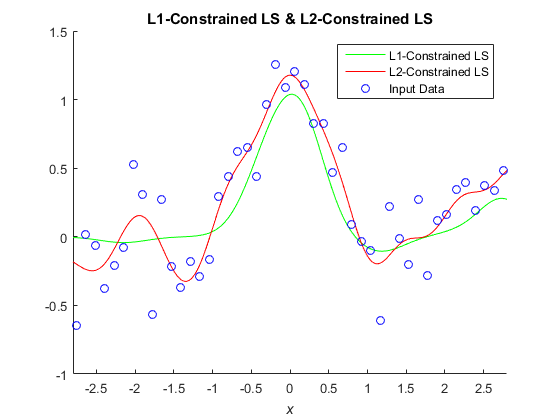
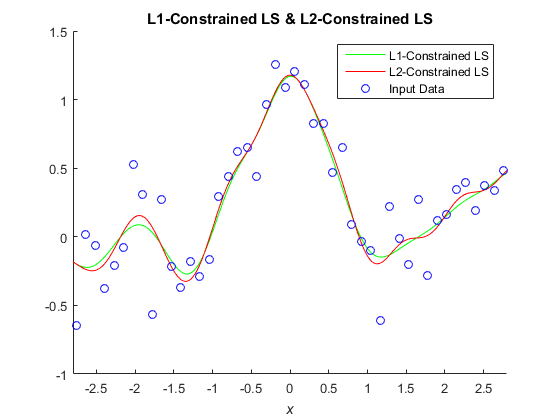
add ch06

diff --git a/chapter06/html/eg6_3.html b/chapter06/html/eg6_3.html
@@ -1,0 +1,234 @@
+
+<!DOCTYPE html
+  PUBLIC "-//W3C//DTD HTML 4.01 Transitional//EN">
+<html><head>
+      <meta http-equiv="Content-Type" content="text/html; charset=utf-8">
+   <!--
+This HTML was auto-generated from MATLAB code.
+To make changes, update the MATLAB code and republish this document.
+      --><title>Example 6.1 L1-Constrained Least Huber Loss Regression</title><meta name="generator" content="MATLAB 8.6"><link rel="schema.DC" href="http://purl.org/dc/elements/1.1/"><meta name="DC.date" content="2016-04-08"><meta name="DC.source" content="eg6_3.m"><style type="text/css">
+html,body,div,span,applet,object,iframe,h1,h2,h3,h4,h5,h6,p,blockquote,pre,a,abbr,acronym,address,big,cite,code,del,dfn,em,font,img,ins,kbd,q,s,samp,small,strike,strong,sub,sup,tt,var,b,u,i,center,dl,dt,dd,ol,ul,li,fieldset,form,label,legend,table,caption,tbody,tfoot,thead,tr,th,td{margin:0;padding:0;border:0;outline:0;font-size:100%;vertical-align:baseline;background:transparent}body{line-height:1}ol,ul{list-style:none}blockquote,q{quotes:none}blockquote:before,blockquote:after,q:before,q:after{content:'';content:none}:focus{outine:0}ins{text-decoration:none}del{text-decoration:line-through}table{border-collapse:collapse;border-spacing:0}
+
+html { min-height:100%; margin-bottom:1px; }
+html body { height:100%; margin:0px; font-family:Arial, Helvetica, sans-serif; font-size:10px; color:#000; line-height:140%; background:#fff none; overflow-y:scroll; }
+html body td { vertical-align:top; text-align:left; }
+
+h1 { padding:0px; margin:0px 0px 25px; font-family:Arial, Helvetica, sans-serif; font-size:1.5em; color:#d55000; line-height:100%; font-weight:normal; }
+h2 { padding:0px; margin:0px 0px 8px; font-family:Arial, Helvetica, sans-serif; font-size:1.2em; color:#000; font-weight:bold; line-height:140%; border-bottom:1px solid #d6d4d4; display:block; }
+h3 { padding:0px; margin:0px 0px 5px; font-family:Arial, Helvetica, sans-serif; font-size:1.1em; color:#000; font-weight:bold; line-height:140%; }
+
+a { color:#005fce; text-decoration:none; }
+a:hover { color:#005fce; text-decoration:underline; }
+a:visited { color:#004aa0; text-decoration:none; }
+
+p { padding:0px; margin:0px 0px 20px; }
+img { padding:0px; margin:0px 0px 20px; border:none; }
+p img, pre img, tt img, li img, h1 img, h2 img { margin-bottom:0px; } 
+
+ul { padding:0px; margin:0px 0px 20px 23px; list-style:square; }
+ul li { padding:0px; margin:0px 0px 7px 0px; }
+ul li ul { padding:5px 0px 0px; margin:0px 0px 7px 23px; }
+ul li ol li { list-style:decimal; }
+ol { padding:0px; margin:0px 0px 20px 0px; list-style:decimal; }
+ol li { padding:0px; margin:0px 0px 7px 23px; list-style-type:decimal; }
+ol li ol { padding:5px 0px 0px; margin:0px 0px 7px 0px; }
+ol li ol li { list-style-type:lower-alpha; }
+ol li ul { padding-top:7px; }
+ol li ul li { list-style:square; }
+
+.content { font-size:1.2em; line-height:140%; padding: 20px; }
+
+pre, code { font-size:12px; }
+tt { font-size: 1.2em; }
+pre { margin:0px 0px 20px; }
+pre.codeinput { padding:10px; border:1px solid #d3d3d3; background:#f7f7f7; }
+pre.codeoutput { padding:10px 11px; margin:0px 0px 20px; color:#4c4c4c; }
+pre.error { color:red; }
+
+@media print { pre.codeinput, pre.codeoutput { word-wrap:break-word; width:100%; } }
+
+span.keyword { color:#0000FF }
+span.comment { color:#228B22 }
+span.string { color:#A020F0 }
+span.untermstring { color:#B20000 }
+span.syscmd { color:#B28C00 }
+
+.footer { width:auto; padding:10px 0px; margin:25px 0px 0px; border-top:1px dotted #878787; font-size:0.8em; line-height:140%; font-style:italic; color:#878787; text-align:left; float:none; }
+.footer p { margin:0px; }
+.footer a { color:#878787; }
+.footer a:hover { color:#878787; text-decoration:underline; }
+.footer a:visited { color:#878787; }
+
+table th { padding:7px 5px; text-align:left; vertical-align:middle; border: 1px solid #d6d4d4; font-weight:bold; }
+table td { padding:7px 5px; text-align:left; vertical-align:top; border:1px solid #d6d4d4; }
+
+
+
+
+
+  </style></head><body><div class="content"><h1>Example 6.1 L1-Constrained Least Huber Loss Regression</h1><!--introduction--><div><ul><li><b>Result in book</b> : Figure 6.13</li><li><b>Code in book</b> : Figure 6.14</li><li><b>Output</b> : <tt>eg6_3.png</tt></li><li><b>Usage</b> : <tt>eg6_3(), eg6_3(50, 1000)</tt></li></ul></div><!--/introduction--><h2>Contents</h2><div><ul><li><a href="#1">Source Code</a></li></ul></div><h2>Source Code<a name="1"></a></h2><pre class="codeinput"><span class="keyword">function</span> eg6_3(n, N)
+	<span class="comment">% init</span>
+	rng(0);
+	<span class="comment">% recommended, use it in future instead of</span>
+	<span class="comment">% rand('state', 0); randn('state', 0);</span>
+	<span class="keyword">if</span> nargin &lt; 2
+		n = 50; N = 1000;
+	<span class="keyword">end</span>
+
+	<span class="comment">% constant</span>
+	x = linspace(-3, 3, n)';
+	X = linspace(-3, 3, N)';
+	pix = pi * x;
+	y = sin(pix) ./ (pix) + 0.1 * x + 0.2 * randn(n, 1);
+	y(n / 2) = -0.5;
+
+	hh = 2 * 0.3 ^ 2;
+	l = 0.1;
+	e = 0.1;
+	t0 = randn(n, 1);
+	x2 = x .^ 2;
+	X2 = X .^ 2;
+	k = exp(-(repmat(x2, 1, n) + repmat(x2', n, 1) - 2 * x * x') / hh);
+	K = exp(-(repmat(X2, 1, n) + repmat(x2', N, 1) - 2 * X * x') / hh);
+
+	<span class="comment">% Least Square Loss Regression, (\lambda, \eta) = (0, \inf)</span>
+	<span class="keyword">for</span> o = 1 : (n * 10000)
+		index = ceil(rand * n);
+		ki = exp(-(x - x(index)) .^ 2 / hh);
+		t = t0 - e * ki * (ki' * t0 - y(index));
+		<span class="keyword">if</span> norm(t - t0) &lt; 1e-7, <span class="keyword">break</span>, <span class="keyword">end</span>
+		t0 = t;
+    <span class="keyword">end</span>
+	F1 = K * t;
+
+	<span class="comment">% L1-Constrained Least Square Loss Regression, (\lambda, \eta) = (0.1, \inf)</span>
+	k2 = k ^ 2; ky = k * y;
+	t0 = randn(n, 1);
+	<span class="keyword">for</span> o = 1 : (n * 1000)
+		t = (k2 + l * pinv(diag(abs(t0)))) \ ky;
+		<span class="keyword">if</span> norm(t - t0) &lt; 1e-4, <span class="keyword">break</span>, <span class="keyword">end</span>
+		t0 = t;
+    <span class="keyword">end</span>
+	F2 = K * t;
+
+	<span class="comment">% Least Huber Loss Regression, (\lambda, \eta) = (0, 0.1)</span>
+	t0 = randn(n, 1);
+	<span class="keyword">for</span> o = 1 : 1000
+		r = abs(k * t0 - y);
+		w = ones(n, 1); w(r &gt; e) = e ./ r(r &gt; e);
+		Z = k * (repmat(w, 1, n) .* k);
+		t = (Z + 0.000001 * eye(n)) \ (k * (w .* y));
+		<span class="keyword">if</span> norm(t - t0) &lt; 1e-4, <span class="keyword">break</span>, <span class="keyword">end</span>
+		t0 = t;
+    <span class="keyword">end</span>
+	F3 = K * t;
+
+	<span class="comment">% L1-Constrained Least Huber Loss Regression, (\lambda, \eta) = (0.1, 0.1)</span>
+	t0 = randn(n, 1);
+	<span class="keyword">for</span> o = 1 : 1000
+		r = abs(k * t0 - y);
+		w = ones(n, 1); w(r &gt; e) = e ./ r(r &gt; e);
+		Z = k * (repmat(w, 1, n) .* k) + l * pinv(diag(abs(t0)));
+		t = (Z + 0.1 * eye(n)) \ (k * (w .* y));
+		<span class="keyword">if</span> norm(t - t0) &lt; 1e-3, <span class="keyword">break</span>, <span class="keyword">end</span>
+		t0 = t;
+    <span class="keyword">end</span>
+	F4 = K * t;
+
+	figure(<span class="string">'Name'</span>, <span class="string">'example 6-3'</span>); clf; hold <span class="string">on</span>;
+	axis([-2.8 2.8 -1 1.5]);
+	plot(X, F1, <span class="string">'b-'</span>, X, F2, <span class="string">'m-'</span>, X, F3, <span class="string">'g-'</span>, X, F4, <span class="string">'r-'</span>, x, y, <span class="string">'cp'</span>);
+	legend(<span class="string">'LS'</span>, <span class="string">'L1-Constrained LS'</span>, <span class="keyword">...</span>
+		<span class="string">'Least Huber'</span>, <span class="string">'L1-Constrained Least Huber'</span>, <span class="keyword">...</span>
+        <span class="string">'Input Data'</span>, <span class="string">'Location'</span>, <span class="string">'southeast'</span>);
+	saveas(gcf, <span class="string">'eg6_3'</span>, <span class="string">'png'</span>);
+<span class="keyword">end</span>
+</pre><img vspace="5" hspace="5" src="eg6_3_01.png" alt=""> <p class="footer"><br><a href="http://www.mathworks.com/products/matlab/">Published with MATLAB&reg; R2015b</a><br></p></div><!--
+##### SOURCE BEGIN #####
+%% Example 6.1 L1-Constrained Least Huber Loss Regression
+%
+% * *Result in book* : Figure 6.13
+% * *Code in book* : Figure 6.14
+% * *Output* : |eg6_3.png|
+% * *Usage* : |eg6_3(), eg6_3(50, 1000)|
+%
+%% Source Code
+function eg6_3(n, N)
+	% init
+	rng(0);
+	% recommended, use it in future instead of
+	% rand('state', 0); randn('state', 0);
+	if nargin < 2
+		n = 50; N = 1000;
+	end
+
+	% constant
+	x = linspace(-3, 3, n)';
+	X = linspace(-3, 3, N)';
+	pix = pi * x;
+	y = sin(pix) ./ (pix) + 0.1 * x + 0.2 * randn(n, 1);
+	y(n / 2) = -0.5;
+
+	hh = 2 * 0.3 ^ 2;
+	l = 0.1;
+	e = 0.1;
+	t0 = randn(n, 1);
+	x2 = x .^ 2;
+	X2 = X .^ 2;
+	k = exp(-(repmat(x2, 1, n) + repmat(x2', n, 1) - 2 * x * x') / hh);
+	K = exp(-(repmat(X2, 1, n) + repmat(x2', N, 1) - 2 * X * x') / hh);
+
+	% Least Square Loss Regression, (\lambda, \eta) = (0, \inf)
+	for o = 1 : (n * 10000)
+		index = ceil(rand * n);
+		ki = exp(-(x - x(index)) .^ 2 / hh);
+		t = t0 - e * ki * (ki' * t0 - y(index));
+		if norm(t - t0) < 1e-7, break, end
+		t0 = t;
+    end
+	F1 = K * t;
+
+	% L1-Constrained Least Square Loss Regression, (\lambda, \eta) = (0.1, \inf)
+	k2 = k ^ 2; ky = k * y;
+	t0 = randn(n, 1);
+	for o = 1 : (n * 1000)
+		t = (k2 + l * pinv(diag(abs(t0)))) \ ky;
+		if norm(t - t0) < 1e-4, break, end
+		t0 = t;
+    end
+	F2 = K * t;
+
+	% Least Huber Loss Regression, (\lambda, \eta) = (0, 0.1)
+	t0 = randn(n, 1);
+	for o = 1 : 1000
+		r = abs(k * t0 - y);
+		w = ones(n, 1); w(r > e) = e ./ r(r > e);
+		Z = k * (repmat(w, 1, n) .* k);
+		t = (Z + 0.000001 * eye(n)) \ (k * (w .* y));
+		if norm(t - t0) < 1e-4, break, end
+		t0 = t;
+    end
+	F3 = K * t;
+
+	% L1-Constrained Least Huber Loss Regression, (\lambda, \eta) = (0.1, 0.1)
+	t0 = randn(n, 1);
+	for o = 1 : 1000
+		r = abs(k * t0 - y);
+		w = ones(n, 1); w(r > e) = e ./ r(r > e);
+		Z = k * (repmat(w, 1, n) .* k) + l * pinv(diag(abs(t0)));
+		t = (Z + 0.1 * eye(n)) \ (k * (w .* y));
+		if norm(t - t0) < 1e-3, break, end
+		t0 = t;
+    end
+	F4 = K * t;
+
+	figure('Name', 'example 6-3'); clf; hold on;
+	axis([-2.8 2.8 -1 1.5]);
+	plot(X, F1, 'b-', X, F2, 'm-', X, F3, 'g-', X, F4, 'r-', x, y, 'cp');
+	legend('LS', 'L1-Constrained LS', ...
+		'Least Huber', 'L1-Constrained Least Huber', ...
+        'Input Data', 'Location', 'southeast');
+	saveas(gcf, 'eg6_3', 'png');
+end
+##### SOURCE END #####
+--></body></html>

diff --git a/chapter05/html/eg5_1.html b/chapter05/html/eg5_1.html
@@ -6,7 +6,7 @@
    <!--
 This HTML was auto-generated from MATLAB code.
 To make changes, update the MATLAB code and republish this document.
-      --><title>Example 5.1 L1-Constrained Regression with Least Square Method</title><meta name="generator" content="MATLAB 8.6"><link rel="schema.DC" href="http://purl.org/dc/elements/1.1/"><meta name="DC.date" content="2016-04-06"><meta name="DC.source" content="eg5_1.m"><style type="text/css">
+      --><title>Example 5.1 L1-Constrained Regression with Least Square Method</title><meta name="generator" content="MATLAB 8.6"><link rel="schema.DC" href="http://purl.org/dc/elements/1.1/"><meta name="DC.date" content="2016-04-08"><meta name="DC.source" content="eg5_1.m"><style type="text/css">
 html,body,div,span,applet,object,iframe,h1,h2,h3,h4,h5,h6,p,blockquote,pre,a,abbr,acronym,address,big,cite,code,del,dfn,em,font,img,ins,kbd,q,s,samp,small,strike,strong,sub,sup,tt,var,b,u,i,center,dl,dt,dd,ol,ul,li,fieldset,form,label,legend,table,caption,tbody,tfoot,thead,tr,th,td{margin:0;padding:0;border:0;outline:0;font-size:100%;vertical-align:baseline;background:transparent}body{line-height:1}ol,ul{list-style:none}blockquote,q{quotes:none}blockquote:before,blockquote:after,q:before,q:after{content:'';content:none}:focus{outine:0}ins{text-decoration:none}del{text-decoration:line-through}table{border-collapse:collapse;border-spacing:0}
 
 html { min-height:100%; margin-bottom:1px; }
@@ -94,7 +94,7 @@ table td { padding:7px 5px; text-align:left; vertical-align:top; border:1px soli
 	ky = k * y;
 
 	<span class="keyword">for</span> o = 1 : 1000
-		t1 = (k2 + 1 * pinv(diag(abs(t0)))) \ ky;
+		t1 = (k2 + l * pinv(diag(abs(t0)))) \ ky;
 		<span class="keyword">if</span> norm(t1 - t0) &lt; 0.001, <span class="keyword">break</span>, <span class="keyword">end</span>
 		t0 = t1;
 	<span class="keyword">end</span>
@@ -150,7 +150,7 @@ function eg5_1(n, N)
 	ky = k * y;
 
 	for o = 1 : 1000
-		t1 = (k2 + 1 * pinv(diag(abs(t0)))) \ ky;
+		t1 = (k2 + l * pinv(diag(abs(t0)))) \ ky;
 		if norm(t1 - t0) < 0.001, break, end
 		t0 = t1;
 	end

diff --git a/chapter06/eg6_3.m b/chapter06/eg6_3.m
@@ -1,0 +1,85 @@
+%% Example 6.1 L1-Constrained Least Huber Loss Regression
+%
+% * *Result in book* : Figure 6.13
+% * *Code in book* : Figure 6.14
+% * *Output* : |eg6_3.png|
+% * *Usage* : |eg6_3(), eg6_3(50, 1000)|
+%
+%% Source Code
+function eg6_3(n, N)
+	% init
+	rng(0);
+	% recommended, use it in future instead of
+	% rand('state', 0); randn('state', 0);
+	if nargin < 2
+		n = 50; N = 1000;
+	end
+
+	% constant
+	x = linspace(-3, 3, n)';
+	X = linspace(-3, 3, N)';
+	pix = pi * x;
+	y = sin(pix) ./ (pix) + 0.1 * x + 0.2 * randn(n, 1);
+	y(n / 2) = -0.5;
+
+	hh = 2 * 0.3 ^ 2;
+	l = 0.1;
+	e = 0.1;
+	t0 = randn(n, 1);
+	x2 = x .^ 2;
+	X2 = X .^ 2;
+	k = exp(-(repmat(x2, 1, n) + repmat(x2', n, 1) - 2 * x * x') / hh);
+	K = exp(-(repmat(X2, 1, n) + repmat(x2', N, 1) - 2 * X * x') / hh);
+
+	% Least Square Loss Regression, (\lambda, \eta) = (0, \inf)
+	for o = 1 : (n * 10000)
+		index = ceil(rand * n);
+		ki = exp(-(x - x(index)) .^ 2 / hh);
+		t = t0 - e * ki * (ki' * t0 - y(index));
+		if norm(t - t0) < 1e-7, break, end
+		t0 = t;
+    end
+	F1 = K * t;
+
+	% L1-Constrained Least Square Loss Regression, (\lambda, \eta) = (0.1, \inf)
+	k2 = k ^ 2; ky = k * y;
+	t0 = randn(n, 1);
+	for o = 1 : (n * 1000)
+		t = (k2 + l * pinv(diag(abs(t0)))) \ ky;
+		if norm(t - t0) < 1e-4, break, end
+		t0 = t;
+    end
+	F2 = K * t;
+
+	% Least Huber Loss Regression, (\lambda, \eta) = (0, 0.1)
+	t0 = randn(n, 1);
+	for o = 1 : 1000
+		r = abs(k * t0 - y);
+		w = ones(n, 1); w(r > e) = e ./ r(r > e);
+		Z = k * (repmat(w, 1, n) .* k);
+		t = (Z + 0.000001 * eye(n)) \ (k * (w .* y));
+		if norm(t - t0) < 1e-4, break, end
+		t0 = t;
+    end
+	F3 = K * t;
+
+	% L1-Constrained Least Huber Loss Regression, (\lambda, \eta) = (0.1, 0.1)
+	t0 = randn(n, 1);
+	for o = 1 : 1000
+		r = abs(k * t0 - y);
+		w = ones(n, 1); w(r > e) = e ./ r(r > e);
+		Z = k * (repmat(w, 1, n) .* k) + l * pinv(diag(abs(t0)));
+		t = (Z + 0.1 * eye(n)) \ (k * (w .* y));
+		if norm(t - t0) < 1e-3, break, end
+		t0 = t;
+    end
+	F4 = K * t;
+
+	figure('Name', 'example 6-3'); clf; hold on;
+	axis([-2.8 2.8 -1 1.5]);
+	plot(X, F1, 'b-', X, F2, 'm-', X, F3, 'g-', X, F4, 'r-', x, y, 'cp');
+	legend('LS', 'L1-Constrained LS', ...
+		'Least Huber', 'L1-Constrained Least Huber', ...
+        'Input Data', 'Location', 'southeast');
+	saveas(gcf, 'eg6_3', 'png');
+end

diff --git a/chapter05/eg5_1.m b/chapter05/eg5_1.m
@@ -34,7 +34,7 @@ function eg5_1(n, N)
 	ky = k * y;
 
 	for o = 1 : 1000
-		t1 = (k2 + 1 * pinv(diag(abs(t0)))) \ ky;
+		t1 = (k2 + l * pinv(diag(abs(t0)))) \ ky;
 		if norm(t1 - t0) < 0.001, break, end
 		t0 = t1;
 	end

diff --git a/README.md b/README.md
@@ -16,18 +16,13 @@
 - All code here generate some figures to comprehend the procedure clearly.
 
 ## Index
-
-- Chapter 03
-	- [example 3.1](http://bookcode.polossk.com/Irasuto-de-Manabu-KiKai-Gakusyuu/examples/eg3_1.html)
-	- [example 3.2](http://bookcode.polossk.com/Irasuto-de-Manabu-KiKai-Gakusyuu/examples/eg3_2.html) [gif](http://bookcode.polossk.com/Irasuto-de-Manabu-KiKai-Gakusyuu/examples/eg3_2_gif.html)
-- Chapter 04
-	- [example 4.1](http://bookcode.polossk.com/Irasuto-de-Manabu-KiKai-Gakusyuu/examples/eg4_1.html)
-	- [example 4.2](http://bookcode.polossk.com/Irasuto-de-Manabu-KiKai-Gakusyuu/examples/eg4_2.html)
-	- [example 4.3](http://bookcode.polossk.com/Irasuto-de-Manabu-KiKai-Gakusyuu/examples/eg4_3.html)
-- Chapter 05
-	- [example 5.1](http://bookcode.polossk.com/Irasuto-de-Manabu-KiKai-Gakusyuu/examples/eg5_1.html)
-- Chapter 06(in progress)
-	- [example 6.1](http://bookcode.polossk.com/Irasuto-de-Manabu-KiKai-Gakusyuu/examples/eg6_1.html)
+- Supervised Regression
+	- Chapter 03 [example 3.1](http://bookcode.polossk.com/Irasuto-de-Manabu-KiKai-Gakusyuu/examples/eg3_1.html) [example 3.2](http://bookcode.polossk.com/Irasuto-de-Manabu-KiKai-Gakusyuu/examples/eg3_2.html) [gif](http://bookcode.polossk.com/Irasuto-de-Manabu-KiKai-Gakusyuu/examples/eg3_2_gif.html)
+	- Chapter 04 [example 4.1](http://bookcode.polossk.com/Irasuto-de-Manabu-KiKai-Gakusyuu/examples/eg4_1.html) [example 4.2](http://bookcode.polossk.com/Irasuto-de-Manabu-KiKai-Gakusyuu/examples/eg4_2.html) [example 4.3](http://bookcode.polossk.com/Irasuto-de-Manabu-KiKai-Gakusyuu/examples/eg4_3.html)
+	- Chapter 05 [example 5.1](http://bookcode.polossk.com/Irasuto-de-Manabu-KiKai-Gakusyuu/examples/eg5_1.html)
+	- Chapter 06 [example 6.1](http://bookcode.polossk.com/Irasuto-de-Manabu-KiKai-Gakusyuu/examples/eg6_1.html) [example 6.2](http://bookcode.polossk.com/Irasuto-de-Manabu-KiKai-Gakusyuu/examples/eg6_2.html) [example 6.3](http://bookcode.polossk.com/Irasuto-de-Manabu-KiKai-Gakusyuu/examples/eg6_3.html)
+- Supervised Classification
+	- Chapter 07(in progress)
 
 ## Copyright
 Use this code whatever you want. Star this repository if you like, and it will be very generous of you!
